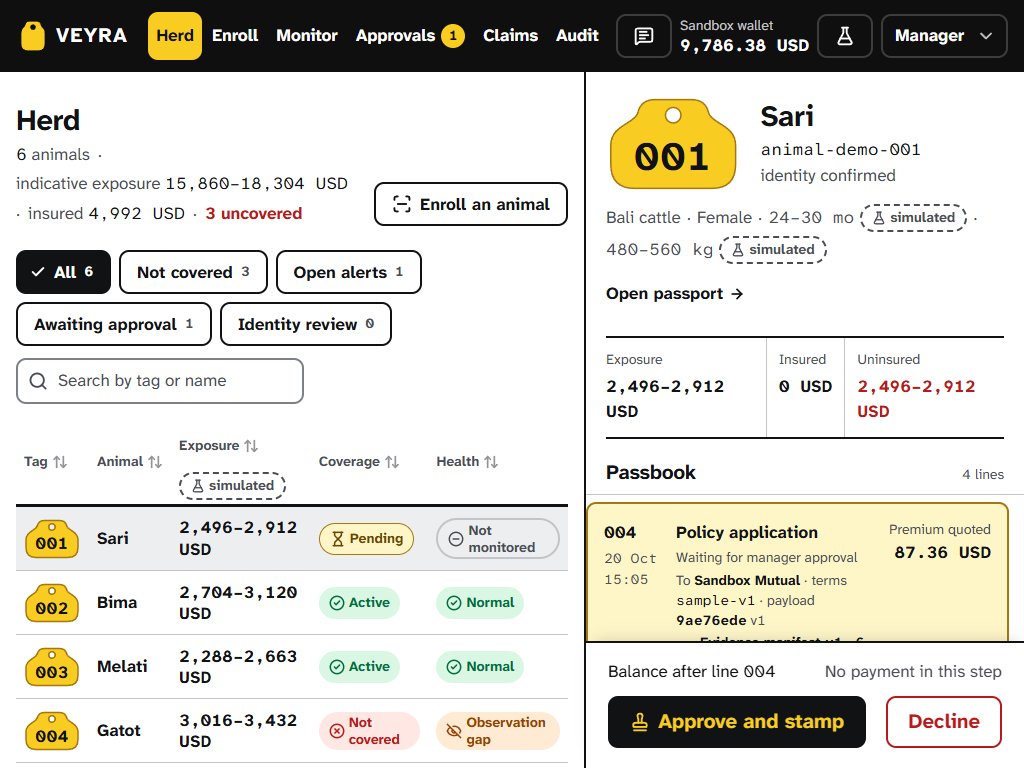
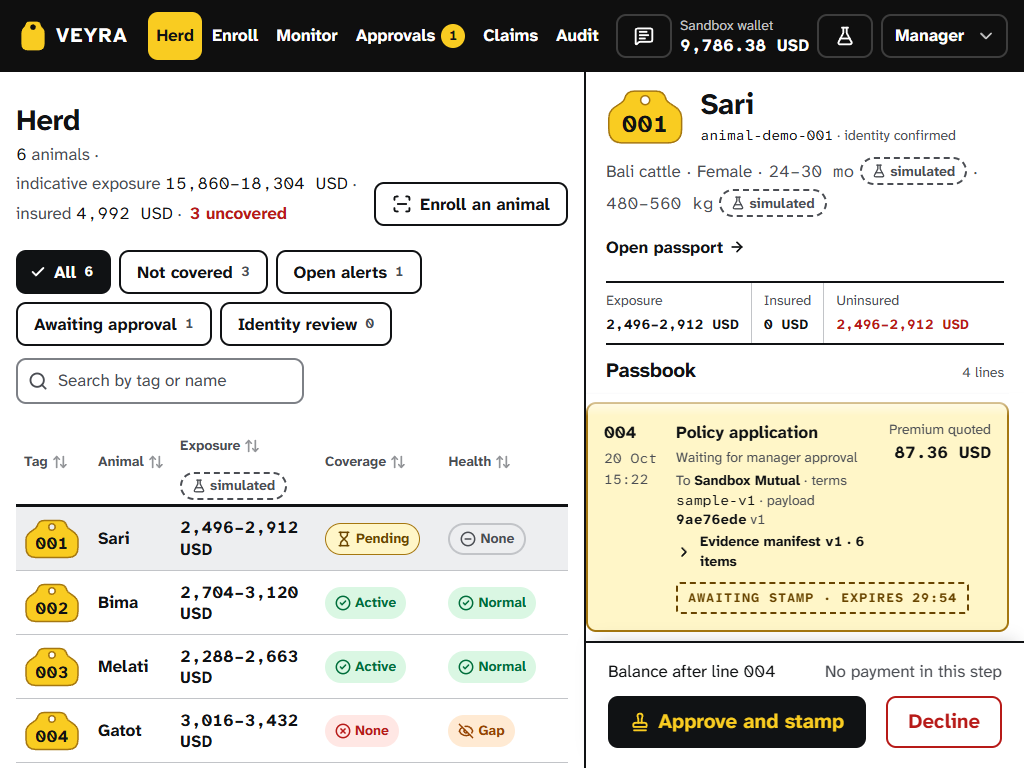
fix(web): compact passbook header on short screens, nowrap pills and herd meta, tag column in wallet ledger

diff --git a/apps/web/src/components/PassbookPanel.tsx b/apps/web/src/components/PassbookPanel.tsx
@@ -1,6 +1,7 @@
 import { Lock, Stamp as StampIcon } from "lucide-react";
-import { useId, type ReactNode } from "react";
+import { useEffect, useId, useRef, type ReactNode } from "react";
 import { cn } from "../lib/cn";
+import { useMediaQuery } from "../lib/use-media-query";
 import { formatMoney, lineNumber } from "../lib/format";
 import { Money } from "./figures";
 import { Button } from "./Button";
@@ -92,25 +93,49 @@ export function PassbookPanel({
   const currency = summary?.currency ?? "USD";
   const uninsuredLow = summary ? Math.max(0, summary.exposureLowMinor - summary.insuredMinor) : 0;
   const uninsuredHigh = summary ? Math.max(0, summary.exposureHighMinor - summary.insuredMinor) : 0;
+  // On a short screen (a 1024×768 tablet) the header compacts so the waiting line and its stamp
+  // slot stay above the decision bar: a smaller tag, one meta line, and a one-row exposure strip.
+  const compact = useMediaQuery("(max-height: 820px)");
+  const cell = compact ? "py-2" : "py-3";
+  const listRef = useRef<HTMLOListElement>(null);
+
+  // Fade the top edge once lines scroll under it, so a cut-off earlier line reads as "more above".
+  useEffect(() => {
+    const list = listRef.current;
+    if (!list) return;
+    const update = () => {
+      if (list.scrollTop > 0) list.setAttribute("data-scrolled", "");
+      else list.removeAttribute("data-scrolled");
+    };
+    update();
+    list.addEventListener("scroll", update, { passive: true });
+    return () => list.removeEventListener("scroll", update);
+  }, [lines.length]);
 
   return (
     <section aria-labelledby={headingId} className={cn("flex min-h-0 flex-col bg-bg", className)}>
-      <div className="flex flex-col gap-5 px-5 pt-6 pb-5">
-        <div className="flex items-center gap-5">
-          <EarTag animalId={animal.id} state={animal.tagState} size="xl" />
+      <div className={cn("flex flex-col", compact ? "gap-3 px-5 pt-4 pb-3" : "gap-5 px-5 pt-6 pb-5")} data-compact={compact || undefined}>
+        <div className={cn("flex items-center", compact ? "gap-4" : "gap-5")}>
+          <EarTag animalId={animal.id} state={animal.tagState} size={compact ? "md" : "xl"} />
           <div className="flex min-w-0 flex-col gap-1">
             <Heading id={headingId} className="text-xl font-bold">
               {animal.name}
             </Heading>
-            <p className="text-muted">
-              <span className="figures whitespace-nowrap text-ink">{animal.id}</span>
-              <br />
-              {IDENTITY_WORDS[animal.tagState]}
-            </p>
+            {compact ? (
+              <p className="truncate text-sm text-muted">
+                <span className="figures whitespace-nowrap text-ink">{animal.id}</span> · {IDENTITY_WORDS[animal.tagState]}
+              </p>
+            ) : (
+              <p className="text-muted">
+                <span className="figures whitespace-nowrap text-ink">{animal.id}</span>
+                <br />
+                {IDENTITY_WORDS[animal.tagState]}
+              </p>
+            )}
           </div>
         </div>
         {/* Full width under the tag, so breed, age, and weight with their sources read on as few lines as possible. */}
-        {animal.description && <div className="-mt-2 text-muted">{animal.description}</div>}
+        {animal.description && <div className={cn("text-muted", !compact && "-mt-2")}>{animal.description}</div>}
 
         {facts && facts.length > 0 && (
           <dl className="grid grid-cols-2 gap-x-5">
@@ -127,16 +152,22 @@ export function PassbookPanel({
         )}
 
         {summary && (
-          <dl className="grid grid-cols-[minmax(0,1fr)_auto_minmax(0,1fr)] border-y-2 border-ink">
-            <div className="flex flex-col gap-1 py-3 pr-3">
+          <dl
+            className={cn(
+              "grid border-y-2 border-ink",
+              // Compact: each figure keeps to one line, so the strip is a single row of three cells.
+              compact ? "grid-cols-[auto_auto_minmax(0,1fr)] [&_dd]:text-sm [&_dd]:whitespace-nowrap" : "grid-cols-[minmax(0,1fr)_auto_minmax(0,1fr)]",
+            )}
+          >
+            <div className={cn("flex flex-col gap-1 pr-3", cell)}>
               <dt className="text-sm text-muted">Exposure</dt>
               <dd className="figures font-bold"><Money low={summary.exposureLowMinor} high={summary.exposureHighMinor} currency={currency} /></dd>
             </div>
-            <div className="flex flex-col gap-1 border-l border-line px-3 py-3">
+            <div className={cn("flex flex-col gap-1 border-l border-line px-3", cell)}>
               <dt className="text-sm text-muted">Insured</dt>
               <dd className="figures font-bold"><Money minor={summary.insuredMinor} currency={currency} whole /></dd>
             </div>
-            <div className="flex flex-col gap-1 border-l border-line py-3 pl-3">
+            <div className={cn("flex flex-col gap-1 border-l border-line pl-3", cell)}>
               <dt className="text-sm text-muted">Uninsured</dt>
               <dd className={cn("figures font-bold", uninsuredHigh > 0 && "text-danger")}>
                 {uninsuredHigh === 0 ? <Money minor={0} currency={currency} whole /> : <Money low={uninsuredLow} high={uninsuredHigh} currency={currency} />}
@@ -158,7 +189,7 @@ export function PassbookPanel({
             Nothing has posted yet. Enrollment writes the first line.
           </p>
         ) : (
-          <ol className="pb-list relative min-h-0 flex-1 overflow-y-auto border-t border-line px-1 [scrollbar-gutter:stable]">
+          <ol ref={listRef} className="pb-list relative min-h-0 flex-1 overflow-y-auto border-t border-line px-1 [scrollbar-gutter:stable]">
             {lines.map((line) => (
               <PassbookLine key={line.id} {...line} timeZone={timeZone} />
             ))}

diff --git a/apps/web/src/features/approvals/WalletPanel.tsx b/apps/web/src/features/approvals/WalletPanel.tsx
@@ -1,9 +1,9 @@
 import { ArrowDownLeft, ArrowUpRight, FlaskConical, Lock, LockOpen, type LucideIcon } from "lucide-react";
-import { Fragment, useId, type ReactNode } from "react";
+import { useId } from "react";
 import { Link } from "react-router";
 import { ErrorNotice, LoadingRegion, Skeleton } from "../../components/feedback";
 import { EarTag } from "../../components/EarTag";
-import { Money, Mono, Timestamp } from "../../components/figures";
+import { Money, Timestamp } from "../../components/figures";
 import { tagStateFor } from "../../lib/animal";
 import { cn } from "../../lib/cn";
 import { formatMoney } from "../../lib/format";
@@ -18,21 +18,11 @@ function withoutLeadingWord(description: string, word: string): string {
 
 const ANIMAL_ID = /^animal-[\w-]+$/;
 
-/** Prints any animal ID in a ledger description as its tag chip and the mono ID. */
-function describe(text: string, identity: Map<string, string>): ReactNode {
-  return text.split(" · ").map((part, i) => (
-    <Fragment key={i}>
-      {i > 0 && " · "}
-      {ANIMAL_ID.test(part) ? (
-        <span className="inline-flex items-center gap-1.5 align-middle">
-          <EarTag animalId={part} state={tagStateFor(identity.get(part) ?? "confirmed")} />
-          <Mono>{part}</Mono>
-        </span>
-      ) : (
-        part
-      )}
-    </Fragment>
-  ));
+/** Splits a ledger description into the animal it names (shown as the row's tag) and the remaining words. */
+function splitAnimal(text: string): { animalId: string | null; rest: string } {
+  const parts = text.split(" · ");
+  const animalId = parts.find((part) => ANIMAL_ID.test(part)) ?? null;
+  return { animalId, rest: parts.filter((part) => part !== animalId).join(" · ") };
 }
 
 const ENTRY: Record<WalletEntry["entry_type"], { icon: LucideIcon; word: string; sign: 1 | -1 | 0 }> = {
@@ -99,16 +89,23 @@ export function WalletPanel({ className }: { className?: string }) {
                 .map((entry) => {
                   const kind = ENTRY[entry.entry_type];
                   const Icon = kind.icon;
+                  const { animalId, rest } = splitAnimal(withoutLeadingWord(entry.description, kind.word));
+                  const fullText = [kind.word, rest, animalId].filter(Boolean).join(" · ");
                   const figure =
                     kind.sign === 0
                       ? formatMoney(entry.amount_minor, entry.currency)
                       : formatMoney(kind.sign * entry.amount_minor, entry.currency, { signed: true });
                   return (
-                    <li key={entry.id} className="grid grid-cols-[auto_minmax(0,1fr)_auto] items-start gap-x-3 border-b border-line py-3">
+                    // The tag sits in its own leading column so the description keeps to one line.
+                    <li key={entry.id} className="grid grid-cols-[auto_3.25rem_minmax(0,1fr)_auto] items-start gap-x-3 border-b border-line py-3">
                       <Icon aria-hidden="true" className="mt-0.5 size-5 text-muted" strokeWidth={2.25} />
+                      <span className="flex min-h-6 items-start">
+                        {animalId && <EarTag animalId={animalId} state={tagStateFor(identity.get(animalId) ?? "confirmed")} />}
+                      </span>
                       <div className="flex min-w-0 flex-col gap-0.5">
-                        <span>
-                          <span className="font-bold">{kind.word}</span> · {describe(withoutLeadingWord(entry.description, kind.word), identity)}
+                        <span className="truncate" title={fullText}>
+                          <span className="font-bold">{kind.word}</span>
+                          {rest && <> · {rest}</>}
                         </span>
                         <span className="text-sm text-muted">
                           <Timestamp value={entry.created_at} mode="absolute" />

diff --git a/apps/web/src/lib/animal.ts b/apps/web/src/lib/animal.ts
@@ -25,10 +25,10 @@ export function identityPill(identityStatus: string | null | undefined): { tone:
   }
 }
 
-export function coveragePill(status: string | null | undefined): { tone: StatusTone; label: string } {
+export function coveragePill(status: string | null | undefined): { tone: StatusTone; label: string; shortLabel?: string } {
   if (status === "active") return { tone: "ok", label: "Active" };
   if (status === "pending") return { tone: "awaiting", label: "Pending" };
-  return { tone: "danger", label: "Not covered" };
+  return { tone: "danger", label: "Not covered", shortLabel: "None" };
 }
 
 export type HealthStatus =
@@ -39,17 +39,19 @@ export type HealthStatus =
   | "normal"
   | "not_monitored";
 
-const HEALTH_PILL: Record<HealthStatus, { tone: StatusTone; label: string; icon?: LucideIcon }> = {
-  needs_inspection: { tone: "danger", label: "Needs inspection", icon: Eye },
-  under_review: { tone: "uncertain", label: "Under review", icon: Hourglass },
-  observation_gap: { tone: "uncertain", label: "Observation gap", icon: EyeOff },
-  veterinary_reviewed: { tone: "ok", label: "Vet reviewed", icon: Stethoscope },
+type HealthPill = { tone: StatusTone; label: string; shortLabel?: string; icon?: LucideIcon };
+
+const HEALTH_PILL: Record<HealthStatus, HealthPill> = {
+  needs_inspection: { tone: "danger", label: "Needs inspection", shortLabel: "Inspect", icon: Eye },
+  under_review: { tone: "uncertain", label: "Under review", shortLabel: "Review", icon: Hourglass },
+  observation_gap: { tone: "uncertain", label: "Observation gap", shortLabel: "Gap", icon: EyeOff },
+  veterinary_reviewed: { tone: "ok", label: "Vet reviewed", shortLabel: "Vetted", icon: Stethoscope },
   normal: { tone: "ok", label: "Normal" },
-  not_monitored: { tone: "neutral", label: "Not monitored" },
+  not_monitored: { tone: "neutral", label: "Not monitored", shortLabel: "None" },
 };
 
 /** A monitoring state from records, never a diagnosis: icon plus plain words. */
-export function healthPill(status: HealthStatus | null | undefined): { tone: StatusTone; label: string; icon?: LucideIcon } {
+export function healthPill(status: HealthStatus | null | undefined): HealthPill {
   return HEALTH_PILL[status ?? "not_monitored"] ?? HEALTH_PILL.not_monitored;
 }
 

diff --git a/apps/web/src/features/herd/HerdPage.tsx b/apps/web/src/features/herd/HerdPage.tsx
@@ -14,6 +14,7 @@ import { Provenance, type Source } from "../../components/Provenance";
 import { StatusPill } from "../../components/StatusPill";
 import { useShellSummary } from "../../app/use-shell-summary";
 import { asSource, coveragePill, healthPill, identityPill, productName, tagStateFor } from "../../lib/animal";
+import { cn } from "../../lib/cn";
 import { formatMoney, formatMoneyRange } from "../../lib/format";
 import type { HerdFilters } from "../../lib/query-keys";
 import { useMediaQuery } from "../../lib/use-media-query";
@@ -232,20 +233,21 @@ function HerdMeta() {
   if (!summary) return <span>Every tagged animal, its exposure, and its cover.</span>;
   const { currency } = summary;
   return (
+    // Each segment keeps to one line and carries its own trailing separator, so a wrap never strands a "·".
     <span className="flex flex-wrap gap-x-2 gap-y-1">
-      <span>
+      <span className="whitespace-nowrap">
         <Mono className="text-ink">{summary.animal_count}</Mono> {summary.animal_count === 1 ? "animal" : "animals"}
+        <span aria-hidden="true"> ·</span>
       </span>
-      <span aria-hidden="true">·</span>
-      <span>
+      <span className="whitespace-nowrap">
         indicative exposure <Mono className="text-ink">{formatMoneyRange(summary.exposure_low_minor, summary.exposure_high_minor, currency)}</Mono>
+        <span aria-hidden="true"> ·</span>
       </span>
-      <span aria-hidden="true">·</span>
-      <span>
+      <span className="whitespace-nowrap">
         insured <Mono className="text-ink">{formatMoney(summary.insured_minor, currency, { whole: true })}</Mono>
+        <span aria-hidden="true"> ·</span>
       </span>
-      <span aria-hidden="true">·</span>
-      <span className={summary.uncovered_count > 0 ? "font-bold text-danger" : undefined}>
+      <span className={cn("whitespace-nowrap", summary.uncovered_count > 0 && "font-bold text-danger")}>
         <Mono>{summary.uncovered_count}</Mono> uncovered
       </span>
     </span>

diff --git a/apps/web/src/features/alerts/AlertDrawer.tsx b/apps/web/src/features/alerts/AlertDrawer.tsx
@@ -43,11 +43,15 @@ function Window({ label, start, end }: { label: string; start: string | null; en
         {start && end ? (
           <span className="flex flex-col">
             <span className="figures">{formatAbsolute(start).split(",")[0]}</span>
-            <span className="figures whitespace-nowrap">
-              <time dateTime={start}>{formatClockSeconds(start)}</time>
-              <span aria-hidden="true"> – </span>
-              <span className="sr-only"> to </span>
-              <time dateTime={end}>{formatClockSeconds(end)}</time> {zoneLabel(start)}
+            {/* The zone may drop under the times in a narrow column rather than run into its neighbour. */}
+            <span className="figures flex flex-wrap gap-x-2">
+              <span className="whitespace-nowrap">
+                <time dateTime={start}>{formatClockSeconds(start)}</time>
+                <span aria-hidden="true"> – </span>
+                <span className="sr-only"> to </span>
+                <time dateTime={end}>{formatClockSeconds(end)}</time>
+              </span>
+              <span className="whitespace-nowrap">{zoneLabel(start)}</span>
             </span>
           </span>
         ) : (
@@ -277,7 +281,7 @@ export function AlertDrawer({ alertId, onClose }: AlertDrawerProps) {
             <h3 id={`${noteId}-win`} className="text-md font-bold">
               Observation against baseline
             </h3>
-            <dl className="grid gap-4 sm:grid-cols-2">
+            <dl className="grid gap-x-6 gap-y-4 sm:grid-cols-2">
               <Window label="Observation window" start={alert.window_start} end={alert.window_end} />
               <Window
                 label={alert.kind === "reduced_movement" ? "Baseline window" : "Baseline"}

diff --git a/apps/web/src/styles/components.css b/apps/web/src/styles/components.css
@@ -157,6 +157,10 @@
   margin: 0;
   padding: 0;
 }
+/* Once lines scroll under the list's top edge, fade it so the cut-off earlier line reads as "more above". */
+.pb-list[data-scrolled] {
+  mask-image: linear-gradient(to bottom, transparent 0, #000 24px);
+}
 
 .pb-line {
   display: grid;
@@ -338,19 +342,22 @@
     padding-inline: 0.625rem;
   }
 }
-/* Beside the 440px passbook a two-word status ("Observation gap", "Not covered") may take two lines
-   inside its pill rather than be cut: every word stays visible and the row still keeps to 64px. */
+/* Status pills never wrap. Beside the 440px passbook (a 552px table at 1024) a long status shows its
+   short word; the full label stays in the accessible name. */
+.pill-label-short {
+  display: none;
+}
 @container (min-width: 34rem) and (max-width: 39.9375rem) {
-  .dt-wrap[data-stack="narrow"] .dt td .rounded-pill {
-    height: auto;
-    min-height: 2rem;
-    padding-block: 0.125rem;
-    line-height: 1.2;
-    white-space: normal;
+  .dt-wrap[data-stack="narrow"] .dt td .pill-label-short {
+    display: inline;
   }
-  .dt-wrap[data-stack="narrow"] .dt td .rounded-pill > .truncate {
-    overflow: visible;
-    white-space: normal;
+  .dt-wrap[data-stack="narrow"] .dt td .pill-label-full {
+    position: absolute;
+    width: 1px;
+    height: 1px;
+    overflow: hidden;
+    clip-path: inset(50%);
+    white-space: nowrap;
   }
 }
 

diff --git a/apps/web/src/components/StatusPill.tsx b/apps/web/src/components/StatusPill.tsx
@@ -22,12 +22,17 @@ const TONE_ICON: Record<StatusTone, LucideIcon> = {
 export interface StatusPillProps {
   tone: StatusTone;
   label: string;
+  /**
+   * A shorter word shown where a narrow table can't fit the full label (beside the passbook at
+   * 1024px). The full label stays in the accessible name.
+   */
+  shortLabel?: string;
   /** Replace the tone's default icon. State is always icon plus text, never color alone. */
   icon?: LucideIcon;
   className?: string;
 }
 
-export function StatusPill({ tone, label, icon, className }: StatusPillProps) {
+export function StatusPill({ tone, label, shortLabel, icon, className }: StatusPillProps) {
   const Icon = icon ?? TONE_ICON[tone];
   return (
     <span
@@ -38,7 +43,12 @@ export function StatusPill({ tone, label, icon, className }: StatusPillProps) {
       )}
     >
       <Icon aria-hidden="true" className="size-4 flex-none" strokeWidth={2.25} />
-      <span className="truncate">{label}</span>
+      <span className={cn("truncate", shortLabel && "pill-label-full")}>{label}</span>
+      {shortLabel && (
+        <span className="pill-label-short" aria-hidden="true">
+          {shortLabel}
+        </span>
+      )}
     </span>
   );
 }
